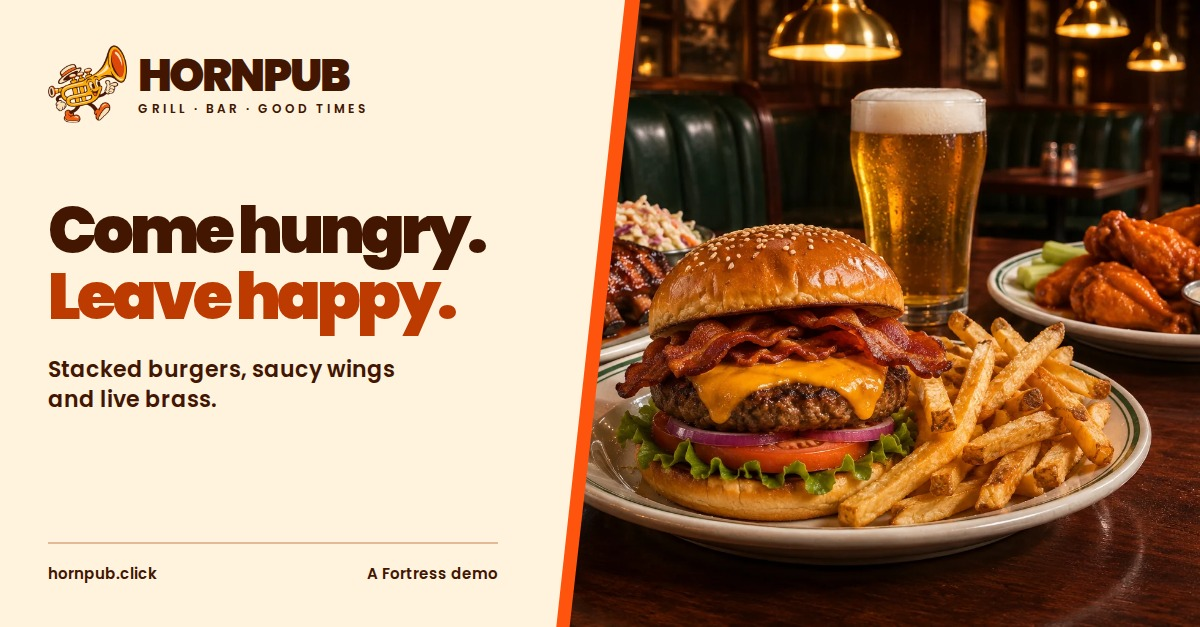
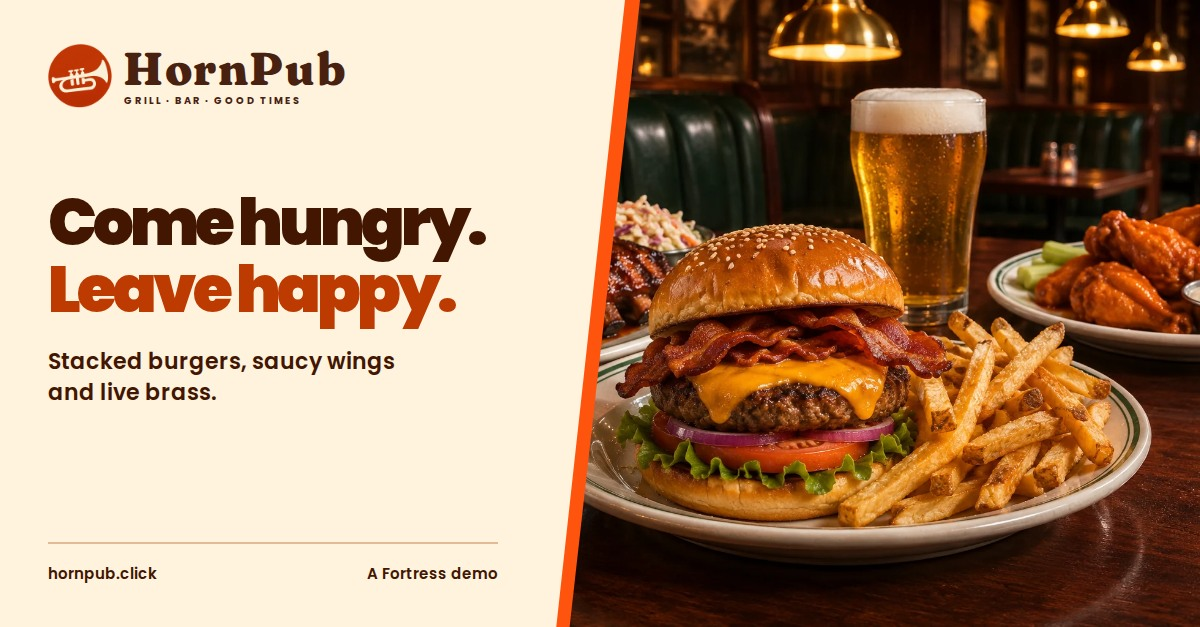
Replace the HornPub mascot with a trumpet seal and mixed-case wordmark

Changed region(s): [[0.0308, 0.303, 0.4008, 0.6667], [0.0308, 0.0606, 0.3083, 0.2121]]

diff --git a/src-site/index.html b/src-site/index.html
@@ -8,17 +8,18 @@
     <title>HornPub | Burgers, Wings &amp; Live Brass</title>
     <meta name="description" content="Come hungry. Leave happy. Explore HornPub’s 120-item grill menu and live brass lineup. A Fortress demo for humans and phone-approved agents." />
     <link rel="canonical" href="https://hornpub.click/" />
-    <link rel="icon" type="image/png" href="/brand/hornpub-trumpet.png" />
+    <link rel="stylesheet" href="/brand/wordmark.css" />
+    <link rel="icon" type="image/png" href="/brand/hornpub-trumpet.png?v=brass" />
     <meta property="og:type" content="website" />
     <meta property="og:site_name" content="HornPub" />
     <meta property="og:url" content="https://hornpub.click/" />
     <meta property="og:title" content="HornPub | Burgers, Wings &amp; Live Brass" />
     <meta property="og:description" content="Come hungry. Leave happy. Explore HornPub’s 120-item grill menu and live brass lineup. A Fortress demo for humans and phone-approved agents." />
-    <meta property="og:image" content="https://hornpub.click/brand/hornpub-social.jpg" />
+    <meta property="og:image" content="https://hornpub.click/brand/hornpub-social.jpg?v=brass" />
     <meta property="og:image:type" content="image/jpeg" />
     <meta property="og:image:width" content="1200" />
     <meta property="og:image:height" content="627" />
-    <meta property="og:image:alt" content="HornPub’s smiling trumpet beside a stacked burger, fries and wings. Come hungry. Leave happy." />
+    <meta property="og:image:alt" content="The HornPub trumpet emblem and wordmark beside a spread of pub food. Come hungry. Leave happy." />
     <meta name="twitter:card" content="summary_large_image" />
   </head>
   <body class="pub-body">

diff --git a/gate/index.html b/gate/index.html
@@ -10,7 +10,8 @@
       content="Come hungry. Leave happy. Explore HornPub’s 120-item grill menu and live brass lineup. A Fortress demo for humans and phone-approved agents."
     />
     <link rel="canonical" href="https://hornpub.click/" />
-    <link rel="icon" type="image/png" href="/brand/hornpub-trumpet.png" />
+    <link rel="stylesheet" href="/brand/wordmark.css" />
+    <link rel="icon" type="image/png" href="/brand/hornpub-trumpet.png?v=brass" />
     <meta property="og:type" content="website" />
     <meta property="og:site_name" content="HornPub" />
     <meta property="og:url" content="https://hornpub.click/" />
@@ -24,14 +25,14 @@
     />
     <meta
       property="og:image"
-      content="https://hornpub.click/brand/hornpub-social.jpg"
+      content="https://hornpub.click/brand/hornpub-social.jpg?v=brass"
     />
     <meta property="og:image:type" content="image/jpeg" />
     <meta property="og:image:width" content="1200" />
     <meta property="og:image:height" content="627" />
     <meta
       property="og:image:alt"
-      content="HornPub’s smiling trumpet beside a stacked burger, fries and wings. Come hungry. Leave happy."
+      content="The HornPub trumpet emblem and wordmark beside a spread of pub food. Come hungry. Leave happy."
     />
     <meta name="twitter:card" content="summary_large_image" />
     <link rel="stylesheet" href="/gate.css" />
@@ -43,7 +44,7 @@
   </head>
   <body>
     <header class="gate-header">
-      <a class="brand" href="/" aria-label="HornPub home"
+      <a class="pub-logo" href="/" aria-label="HornPub home"
         ><img
           class="trumpet"
           src="/brand/hornpub-trumpet.png"

diff --git a/assets/social-card.html b/assets/social-card.html
@@ -2,6 +2,7 @@
 <html lang="en">
   <meta charset="utf-8" />
   <title>HornPub social artwork</title>
+  <link rel="stylesheet" href="../gate/brand/wordmark.css" />
   <style>
     @font-face {
       font-family: Poppins;
@@ -12,6 +13,11 @@
       font-family: Poppins;
       font-weight: 600;
       src: url("../gate/brand/poppins-600.woff2");
+    }
+    @font-face {
+      font-family: Poppins;
+      font-weight: 700;
+      src: url("../gate/brand/poppins-700.woff2");
     }
     * {
       box-sizing: border-box;
@@ -51,29 +57,6 @@
       left: 48px;
       width: 507px;
     }
-    .brand {
-      display: flex;
-      align-items: center;
-      gap: 11px;
-      font-size: 45px;
-      letter-spacing: -2px;
-      font-weight: 900;
-    }
-    .brand img {
-      width: 79px;
-      height: 79px;
-      object-fit: contain;
-    }
-    .brand small {
-      display: block;
-      font-size: 12px;
-      letter-spacing: 3px;
-      margin-top: 5px;
-      font-weight: 600;
-    }
-    .brand span {
-      line-height: 1;
-    }
     h1 {
       font-size: 65px;
       line-height: 1.02;
@@ -110,9 +93,9 @@
   <div class="panel panel-edge"></div>
   <div class="panel"></div>
   <div class="copy">
-    <div class="brand">
-      <img src="../gate/brand/hornpub-trumpet.png" alt="" /><span
-        >HORNPUB<small>GRILL · BAR · GOOD TIMES</small></span
+    <div class="pub-logo">
+      <img class="trumpet" src="../gate/brand/hornpub-trumpet.png" alt="" /><span
+        >HornPub<small>GRILL · BAR · GOOD TIMES</small></span
       >
     </div>
     <h1>Come hungry.<br /><em>Leave happy.</em></h1>

diff --git a/src-site/src/static/global.css b/src-site/src/static/global.css
@@ -146,41 +146,6 @@ p {
   gap: 18px;
   position: relative;
 }
-.pub-logo {
-  display: inline-flex;
-  align-items: center;
-  gap: 0.16em;
-  text-decoration: none;
-  font:
-    900 40px/0.95 Poppins,
-    Arial,
-    sans-serif;
-  letter-spacing: -2px;
-  text-transform: uppercase;
-  color: var(--brand-orange);
-  flex-shrink: 0;
-  -webkit-text-stroke: 1px var(--warm-brown);
-  paint-order: stroke fill;
-}
-.pub-logo .trumpet {
-  width: 1.65em;
-  height: 1.65em;
-  object-fit: contain;
-}
-.pub-logo > span {
-  color: var(--brand-orange);
-}
-.pub-logo small {
-  display: block;
-  font:
-    700 8px/1.4 Poppins,
-    Arial,
-    sans-serif;
-  letter-spacing: 2px;
-  margin-top: 9px;
-  color: var(--warm-brown);
-  -webkit-text-stroke: 0;
-}
 .pub-nav {
   display: flex;
   gap: 10px;
@@ -1066,13 +1031,6 @@ p {
   .nav-inner {
     gap: 16px;
   }
-  .pub-logo {
-    font-size: 31px;
-  }
-  .pub-logo small {
-    font-size: 6px;
-    letter-spacing: 1.5px;
-  }
   .mobile-toggle {
     display: block;
   }
@@ -1299,9 +1257,6 @@ p {
   .nav-inner {
     gap: 8px;
   }
-  .pub-logo {
-    font-size: 26px;
-  }
   .hero-copy .pub-button {
     font-size: 12px;
     padding: 13px 18px;
@@ -1509,17 +1464,5 @@ p {
   }
   .cart-layout {
     gap: 28px;
-  }
-}
-
-@media (max-width: 760px) {
-  .pub-logo .trumpet {
-    width: 1.22em;
-    height: 1.22em;
-  }
-}
-@media (max-width: 375px) {
-  .nav-inner .pub-logo {
-    font-size: 21px;
   }
 }

diff --git a/gate/gate.css b/gate/gate.css
@@ -65,37 +65,6 @@ footer {
   justify-content: space-between;
   gap: 24px;
 }
-.brand {
-  display: inline-flex;
-  align-items: center;
-  gap: 0.18em;
-  font:
-    900 40px/0.95 Poppins,
-    Arial,
-    sans-serif;
-  color: #ff4e00;
-  text-decoration: none;
-  text-transform: uppercase;
-  letter-spacing: -2px;
-  -webkit-text-stroke: 1px #571700;
-  paint-order: stroke fill;
-}
-.trumpet {
-  width: 1.65em;
-  height: 1.65em;
-  object-fit: contain;
-}
-.brand small {
-  display: block;
-  font:
-    700 8px/1.4 Poppins,
-    Arial,
-    sans-serif;
-  letter-spacing: 2px;
-  margin-top: 10px;
-  color: #571700;
-  -webkit-text-stroke: 0;
-}
 .gate-layout {
   margin-bottom: 38px;
   border-radius: 18px;
@@ -293,18 +262,6 @@ summary {
     padding-inline: 16px;
     height: 70px;
     gap: 14px;
-  }
-  .brand {
-    display: inline-flex;
-    align-items: center;
-    gap: 0.18em;
-    font-size: 30px;
-    letter-spacing: -1.5px;
-  }
-  .brand small {
-    font-size: 6px;
-    letter-spacing: 1.4px;
-    margin-top: 7px;
   }
   .gate-scene {
     height: 320px;

diff --git a/gate/brand/wordmark.css b/gate/brand/wordmark.css
@@ -1,0 +1,29 @@
+@font-face {
+  font-family: "HornPub Lettering";
+  src: url("./hornpub-lettering.woff2") format("woff2");
+  font-weight: 820;
+  font-display: swap;
+}
+.pub-logo {
+  display: inline-flex;
+  flex: none;
+  align-items: center;
+  gap: 0.23em;
+  color: #482111;
+  font: 820 clamp(32px, 4vw, 46px) / 1 "HornPub Lettering", Georgia, serif;
+  letter-spacing: 0.035em;
+  white-space: nowrap;
+  text-decoration: none;
+}
+.pub-logo .trumpet {
+  flex: none;
+  width: 1.4em;
+  height: 1.4em;
+  object-fit: contain;
+}
+.pub-logo small {
+  display: block;
+  margin: 0.48em 0 0 0.15em;
+  font: 700 max(8px, 0.21em) / 1.1 Poppins, Arial, sans-serif;
+  letter-spacing: 0.19em;
+}

diff --git a/assets/README.md b/assets/README.md
@@ -11,3 +11,5 @@ Style: original American neighborhood bar-and-grill food photography, dark walnu
 ## Typography
 
 Poppins (400, 600, 700, 800, 900) is self-hosted in `gate/brand/` and shared by the entry page and authenticated site. Downloaded from Google Fonts and converted to WOFF2; licensed under the SIL Open Font License in `Poppins-OFL.txt`. No runtime font requests go to third parties.
+
+The HornPub wordmark pairs an original generated ivory trumpet seal with a self-hosted [Fraunces](https://github.com/undercasetype/Fraunces) subset for the seven letters. The lettering uses weight 820, optical size 48, softness 60, and the wonky alternates. See [Fraunces-OFL.txt](Fraunces-OFL.txt).
